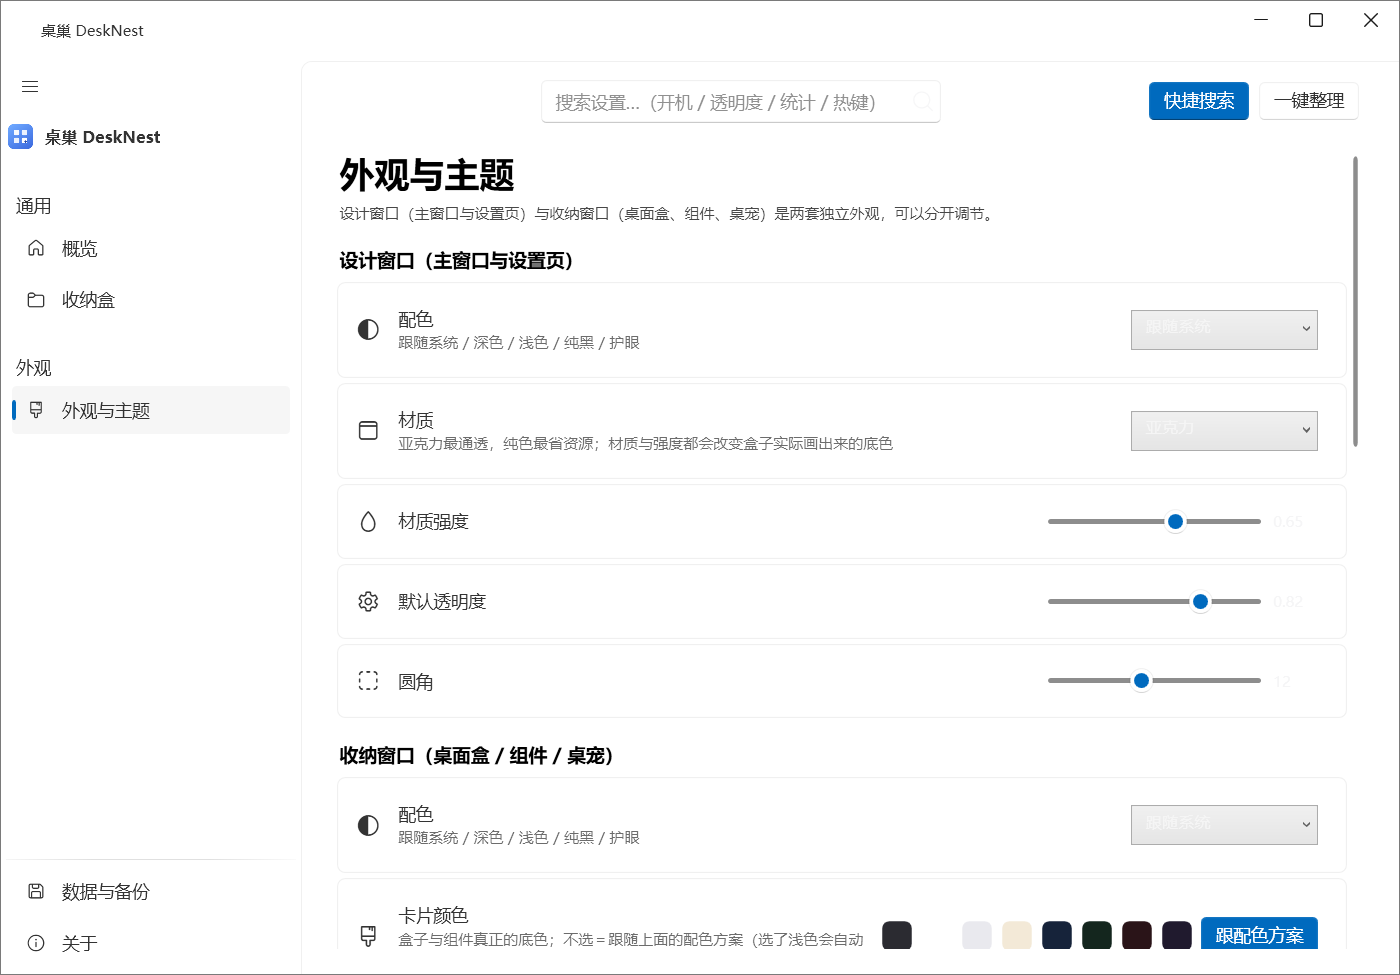
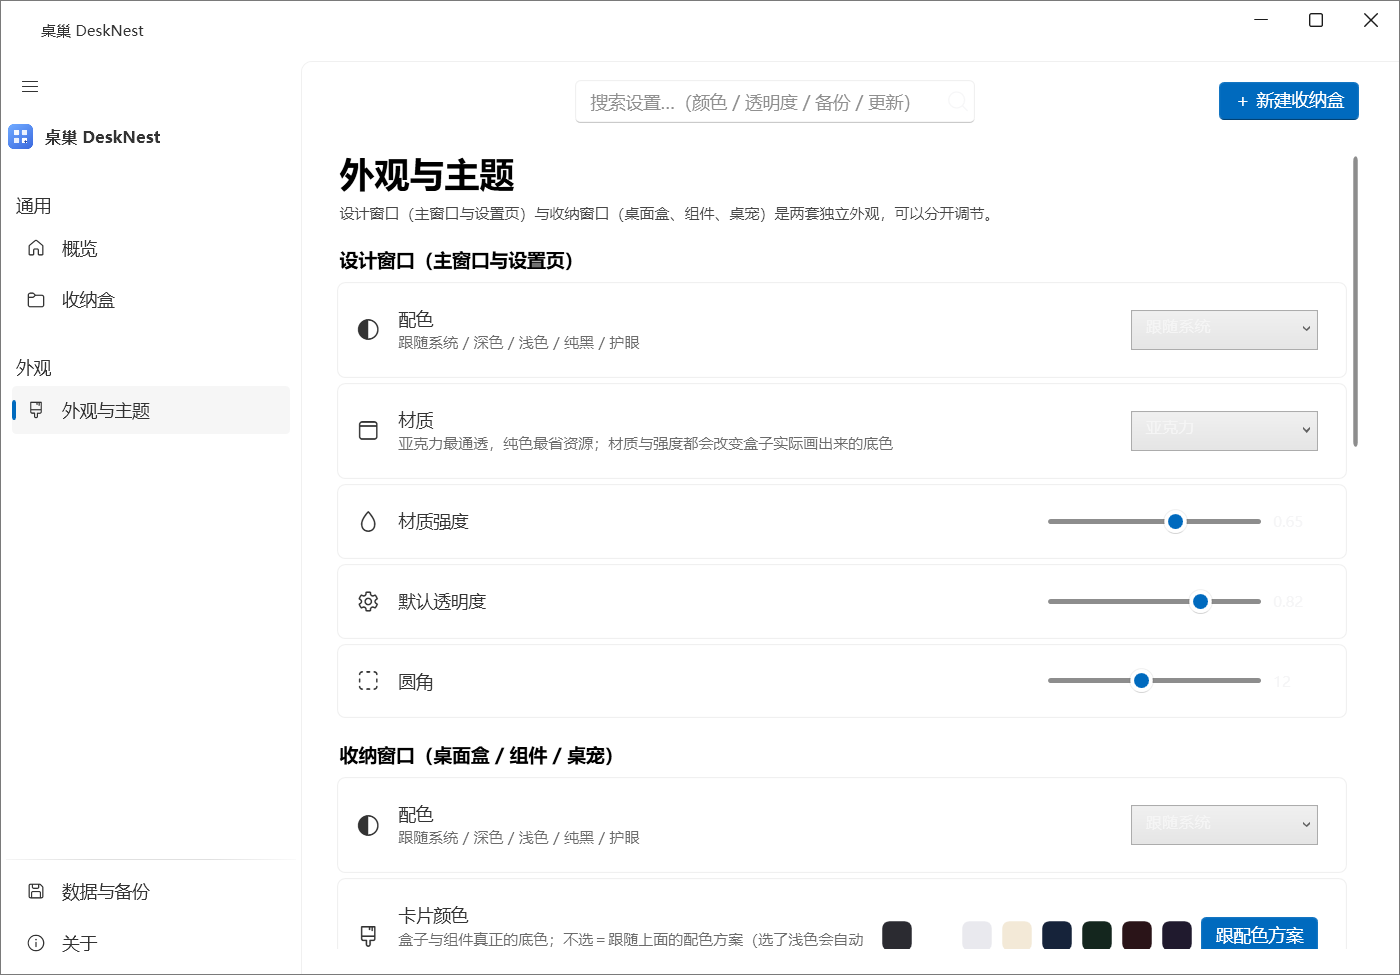
fix(v2.0): 顶栏去掉「快捷搜索/一键整理」死按钮，改为「新建收纳盒」；搜索占位符改 v2.0 范围；重出 5 页截图

Changed region(s): [[0.7986, 0.0615, 0.9829, 0.1231], [0.3993, 0.0923, 0.645, 0.1231]]

diff --git a/src/DeskNest.App/Windows/MainWindow.cs b/src/DeskNest.App/Windows/MainWindow.cs
@@ -192,7 +192,7 @@ public sealed class MainWindow : FluentWindow
         grid.ColumnDefinitions.Add(new ColumnDefinition { Width = new GridLength(1, GridUnitType.Star) });
         grid.ColumnDefinitions.Add(new ColumnDefinition { Width = GridLength.Auto });
 
-        var searchBox = UiKit.InputWithPlaceholder("搜索设置…（开机 / 透明度 / 统计 / 热键）", _ => { }, 320);
+        var searchBox = UiKit.InputWithPlaceholder("搜索设置…（颜色 / 透明度 / 备份 / 更新）", _ => { }, 320);
         searchBox.HorizontalAlignment = HorizontalAlignment.Center;
         searchBox.TextAlignment = TextAlignment.Left;
         searchBox.Margin = new Thickness(0);
@@ -211,9 +211,9 @@ public sealed class MainWindow : FluentWindow
         searchWrap.Children.Add(lens);
         Grid.SetColumn(searchWrap, 0);
 
+        // v2.0：顶栏只留一个真实动作（搜索/整理已下架，别留死按钮）
         var quick = new StackPanel { Orientation = Orientation.Horizontal };
-        quick.Children.Add(UiKit.Btn("快捷搜索", () => (Application.Current as App)?.ShowSearch(), true));
-        quick.Children.Add(UiKit.Btn("一键整理", () => OpenOrganizeWizard()));
+        quick.Children.Add(UiKit.Btn("＋ 新建收纳盒", () => NavigateTo("boxes"), true));
         Grid.SetColumn(quick, 1);
 
         grid.Children.Add(searchWrap);
